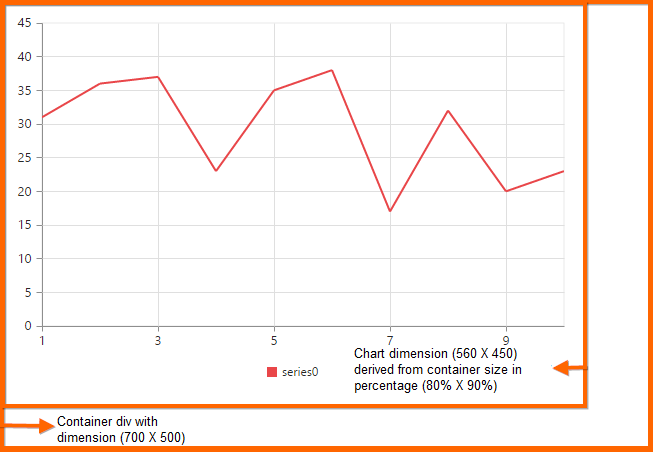
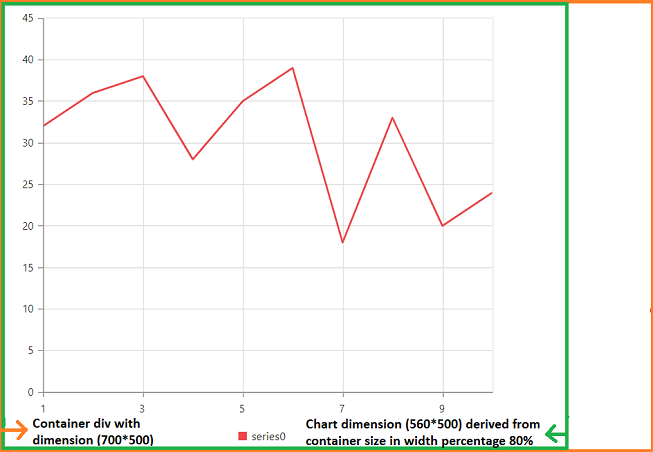
config(JS-63807): Chart size against its container size content is changed.

diff --git a/aspnet/Chart/Chart-Dimensions.md b/aspnet/Chart/Chart-Dimensions.md
@@ -47,7 +47,7 @@ You can specify the chart size in percentage by using the Size property. The cha
 
 <div id="Chart1" style="width:700px; height:500px">  
    <ej:Chart ID="Chart1" runat="server">    
-       <Size Width="90%" Height="80%"></Size>
+       <Size Width="80%"></Size>
    </ej:Chart>
 </div>
 
